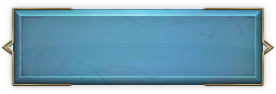
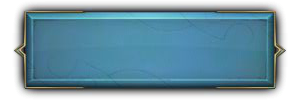
Update

diff --git a/Eternal_Ritual/Core/ClientCore/ClientCore.cpp b/Eternal_Ritual/Core/ClientCore/ClientCore.cpp
@@ -361,15 +361,20 @@ void ClientCore::displayStart() {
     std::cout << std::endl;
     std::cout << "|-- Pre-Game Stage 1 - Display Start Scene --|" << std::endl;
     
+    start_scene_ui_->enabled = false;
+    
     enter_game_ = true;
     is_waiting_ = true;
     cursor_->isDisable(false);
     start_scene_ui_->isDisbled(false);
-    Animation* startDelay = new Animation("startDelay",0.9);
+    Animation* startDelay = new Animation("startDelay", 1.0f);
     startDelay->setCompletionHandler([&] {
-        Animation* showStart = new Animation("showStart", 1);
+        Animation* showStart = new Animation("showStart", 1.0f);
         showStart->setEaseInTimingMode();
-        showStart->setFloatAnimation(&(button_base_->alpha), 1.0);
+        showStart->setFloatAnimation(&(button_base_->alpha), 1.0f);
+        showStart->setCompletionHandler([&] {
+            start_scene_ui_->enabled = true;
+        });
         engine_->playAnimation(showStart);
     });
     engine_->playAnimation(startDelay);
@@ -379,6 +384,7 @@ void ClientCore::displayStart() {
 
 
 void ClientCore::updateStart() {
+    
     int state = start_scene_ui_->update(is_waiting_);
     if (state == 1) {
         process_ = 6;

diff --git a/Eternal_Ritual/Game/UI/ButtonNode.cpp b/Eternal_Ritual/Game/UI/ButtonNode.cpp
@@ -19,10 +19,10 @@ ButtonNode::ButtonNode(UINode* parentNode, Font* font){
     
     background->scale = glm::vec2(0.8f);
     
-    text = new TextNode(font, UISizes::buttonSize.y * 0.5f, UISizes::buttonSize.x, 0.01f);
+    text = new TextNode(font, UISizes::buttonSize.y * 0.4f, UISizes::buttonSize.x, 0.01f);
     text->setCenterVerticalAlignment();
     text->setCenterHorizontalAlignment();
-    text->parentCoordinatePosition = glm::vec2(0.5f, 0.62f);
+    text->parentCoordinatePosition = glm::vec2(0.5f, 0.6f);
 
     background->addChildNode(text);
     parentNode->addChildNode(background);

diff --git a/Eternal_Ritual/Game/UI/Logo.cpp b/Eternal_Ritual/Game/UI/Logo.cpp
@@ -79,7 +79,7 @@ Logo::Logo(Engine* e, Font* font, UINode* parentNode, int* process)
     loadingText->color = Color::textColor;
     loadingText->alpha = 0.0f;
         
-    loadingbar = new SpriteNode(glm::vec2(14.95f / 20.0f, 0.15f / 20.0f) * 1.2f);
+    loadingbar = new SpriteNode(glm::vec2(14.8f / 20.0f, 0.15f / 20.0f) * 1.2f);
     loadingbar->texture = new Texture("/Resources/Game/UI/loading.png");
     loadingbar->parentCoordinatePosition = glm::vec2(0.5, 0.7);
     loadingbar->renderingOrder = 1.0f;

diff --git a/Eternal_Ritual/Game/UI/Cursor.cpp b/Eternal_Ritual/Game/UI/Cursor.cpp
@@ -25,7 +25,7 @@ void Cursor::isDisable(bool t)
     if(t == false) {
 		cursorAnimation->setEaseInTimingMode();
 		cursorAnimation->setFloatAnimation(&this->cursor->alpha, 1.0f);
-        this->cursorScreenPosition = glm::vec2(0.5f);
+        this->cursorScreenPosition = glm::vec2(0.5f, 0.56f);
 	} else {
 		cursorAnimation->setEaseOutTimingMode();
 		cursorAnimation->setFloatAnimation(&this->cursor->alpha, 0.0f);

diff --git a/Eternal_Ritual/Game/UI/Constant.hpp b/Eternal_Ritual/Game/UI/Constant.hpp
@@ -88,7 +88,7 @@ namespace UISizes{
 
 
 	// button ===============
-	const glm::vec2 buttonSize = glm::vec2(0.276,0.094);
+	const glm::vec2 buttonSize = glm::vec2(0.24f, 0.08f);
 
 	// windows ==============
 	const glm::vec2 netWinBackSize = glm::vec2(0.852,0.078);

diff --git a/Eternal_Ritual/Game/UI/Cursor.hpp b/Eternal_Ritual/Game/UI/Cursor.hpp
@@ -10,7 +10,7 @@ public:
 	SpriteNode* cursor;
 public:
     
-    glm::vec2 cursorScreenPosition = glm::vec2(0.5f);
+    glm::vec2 cursorScreenPosition = glm::vec2(0.5f, 0.56f);
     
 	Cursor(Engine* e);
 	~Cursor() = default;

diff --git a/Eternal_Ritual/Game/UI/StartSceneUI.cpp b/Eternal_Ritual/Game/UI/StartSceneUI.cpp
@@ -78,7 +78,7 @@ int StartSceneUI::update(bool isWaiting) {
         return 5;
     }
 
-	if (!show && !creditShow) {
+	if (!show && !creditShow && enabled) {
 
 		bool isReleased = input->wasKeyReleased(MOUSE_BUTTON_LEFT);
 

diff --git a/Eternal_Ritual/Game/UI/StartSceneUI.hpp b/Eternal_Ritual/Game/UI/StartSceneUI.hpp
@@ -8,6 +8,9 @@
 
 class StartSceneUI {
 public:
+    
+    bool enabled = false;
+    
 	Engine* engine;
 	UINode* parentNode;
 	UINode* buttonBase;
